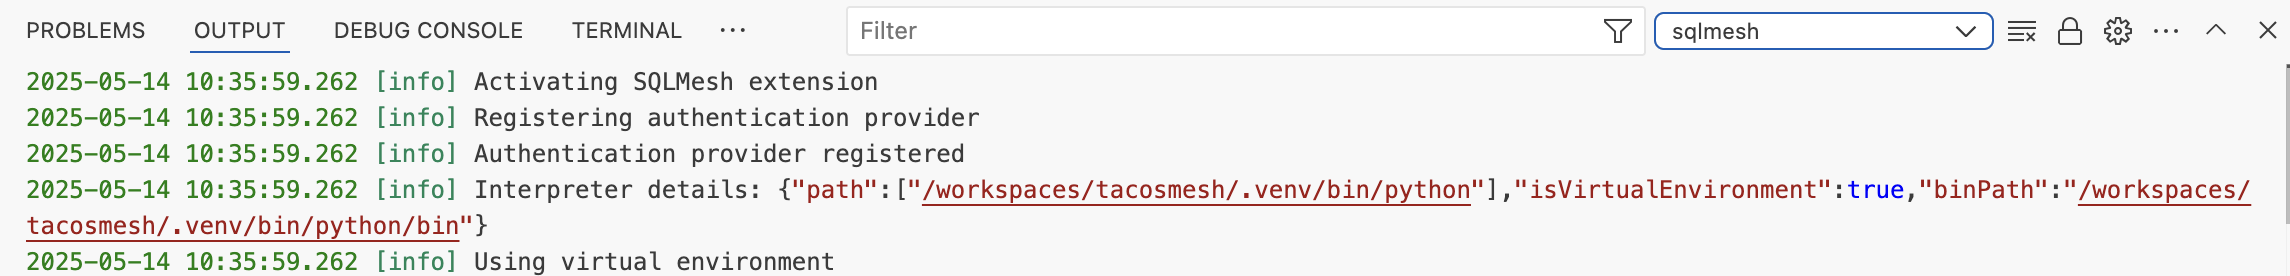
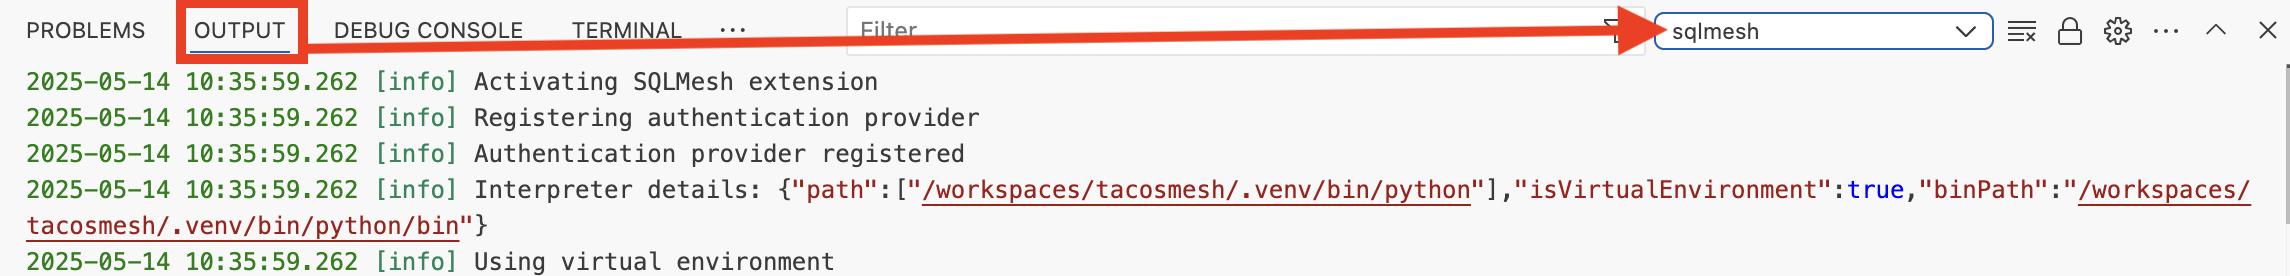
Edit vscode guide

Changed region(s): [[0.062, 0.0, 0.7441, 0.2319]]

diff --git a/docs/quickstart/vscode.md b/docs/quickstart/vscode.md
@@ -2,112 +2,153 @@
 
 !!! danger "Preview"
 
-    The extension is currently in preview and as such is subject to change. You may encounter bugs and API incompatibilities with the SQLMesh version you are running. We encourage you to try it and raise any issues [here](https://github.com/tobikodata/sqlmesh/issues).
+    The SQLMesh Visual Studio Code extension is in preview and undergoing active development. You may encounter bugs or API incompatibilities with the SQLMesh version you are running.
 
-In this quickstart guide, you'll set up the SQLMesh extension in Visual Studio Code. We'll show you the capabilities of the extension and how to troubleshoot common issues.
+    We encourage you to try the extension and [create Github issues](https://github.com/tobikodata/sqlmesh/issues) for any problems you encounter.
+
+In this guide, you'll set up the SQLMesh extension in the Visual Studio Code IDE software (which we refer to as "VSCode").
+
+We'll show you the capabilities of the extension and how to troubleshoot common issues.
 
 ## Installation
 
-Installation is done through the official [marketplace](https://marketplace.visualstudio.com/items?itemName=tobikodata.sqlmesh) or by searching for `SQLMesh` in the "Extensions" tab of Visual Studio Code. 
+### VSCode extension
 
-For further guidance on how to install extensions, see the [relevant Visual Studio Code documentation](https://code.visualstudio.com/docs/configure/extensions/extension-marketplace#_install-an-extension).  
+Install the extension through the official Visual Studio [marketplace website](https://marketplace.visualstudio.com/items?itemName=tobikodata.sqlmesh) or by searching for `SQLMesh` in the VSCode "Extensions" tab.
 
-### Recommended setup
+Learn more about installing VSCode extensions in the [official documentation](https://code.visualstudio.com/docs/configure/extensions/extension-marketplace#_install-an-extension).
 
-While installing the extension is simple, setting up a Python environment correctly is a bit more involved. We do recommend using a dedicated *Python virtual environment* to install SQLMesh. For a complete guide, visit the [Python documentation](https://docs.python.org/3/library/venv.html), but the following steps will create the virtual environment, activate it, and install SQLMesh for both a SQLMesh core setup and a Tobiko Cloud setup.
+### Python setup
 
-#### SQLMesh Core
+While installing the extension is simple, setting up and configuring a Python environment in VSCode is a bit more involved.
 
-For SQLMesh core, you can create a virtual environment, activate it and install SQLMesh as follows:
+We recommend using a dedicated *Python virtual environment* to install SQLMesh. Visit the [Python documentation](https://docs.python.org/3/library/venv.html) for more information about virtual environments.
+
+We describe the steps to create and activate a virtual environment below, but additional information is available on the [SQLMesh installation page](installation.md).
+
+We first install the SQLMesh library, which is required by the extension.
+
+Open a terminal instance in your SQLMesh project's directory and issue this command to create a virtual environment in the `.venv` directory:
 
 ```bash
 python -m venv .venv
+```
+
+Next, activate the virtual environment:
+
+```bash
 source .venv/bin/activate
+```
+
+#### Open-source SQLMesh
+
+If you are using open-source SQLMesh, install SQLMesh with the `lsp` extra that enables the VSCode extension (learn more about SQLMesh extras [here](installation.md#install-extras)):
+
+```bash
 pip install 'sqlmesh[lsp]'
 ```
 
-Once you have the virtual environment, you can ensure that Visual Studio Code is using the correct Python interpreter by going to the [command palette](https://code.visualstudio.com/docs/getstarted/userinterface#_command-palette) and running `Python: Select Interpreter`. Select the Python executable in the virtual environment.
-
-![Select interpreter](./vscode/select_interpreter.png)
-
-Once that's done, you can validate that the extension is correctly using the virtual environment by checking the `sqlmesh` output channel in the [output panel](https://code.visualstudio.com/docs/getstarted/userinterface#_output-panel), which details the Python path and the details of your SQLMesh installation and looks as follows:
-
-![Output panel](./vscode/interpreter_details.png)
-
 #### Tobiko Cloud
 
-For Tobiko Cloud, the `tcloud` utility is used to install SQLMesh, so you'll need to set up a Python environment, activate it, and install SQLMesh using the tcloud utility as follows.
+If you are using Tobiko Cloud, the `tcloud` library will install SQLMesh for you.
+
+First, follow the [Python setup](#python-setup) steps above to create and activate a Python environment. Next, install `tcloud`:
 
 ```bash
-python -m venv .venv
-source .venv/bin/activate
 pip install tcloud
 ```
 
-Once you have the virtual environment, you can ensure that Visual Studio Code is using the correct Python interpreter by going to the [command palette](https://code.visualstudio.com/docs/getstarted/userinterface#_command-palette) and running `Python: Select Interpreter`. Select the Python executable in the virtual environment.
+Finally, add the `lsp` extra to your `tcloud.yml` configuration file, as described [here](../cloud/tcloud_getting_started.md#connect-tobiko-cloud-to-data-warehouse).
+
+### VSCode Python interpreter
+
+A Python virtual environment contains its own copy of Python (the "Python interpreter"). We need to make sure VSCode is using your virtual environment's interpreter rather than a system-wide or other interpreter that does not have access to the SQLMesh library we just installed.
+
+Confirm that VSCode is using the correct interpreter by going to the [command palette](https://code.visualstudio.com/docs/getstarted/userinterface#_command-palette) and clicking `Python: Select Interpreter`. Select the Python executable that's in the virtual environment's directory `.venv`.
 
 ![Select interpreter](./vscode/select_interpreter.png)
 
-You can use the `tcloud` commands in your terminal to perform operations as usual, or the extension exposes the same commands through the command palette under the following commands:
-- `Sign in to Tobiko Cloud`
-- `Sign out of Tobiko Cloud`
+Once that's done, validate that the everything is working correctly by checking the `sqlmesh` channel in the [output panel](https://code.visualstudio.com/docs/getstarted/userinterface#_output-panel). It displays the Python interpreter path and details of your SQLMesh installation:
+
+![Output panel](./vscode/interpreter_details.png)
 
 ## Features
 
-### Lineage 
+SQLMesh's VSCode extension makes it easy to edit and understand your SQLMesh project with these features:
 
-The extension adds a lineage view to SQLMesh models. To view the lineage of a model, use the `Lineage` tab in the panel as shown below:
+- Lineage
+    - Interactive view of model lineage
+- Editor
+    - Auto-completion for model names and SQLMesh keywords
+    - Model summaries when hovering over model references
+    - Links to open model files from model references
+    - Inline SQLMesh linter diagnostics
+- VSCode commands
+    - Format SQLMesh project files
+    - Sign in/out of Tobiko Cloud (Tobiko Cloud users only)
+
+### Lineage
+
+The extension adds a lineage view to SQLMesh models. To view the lineage of a model, go to the `Lineage` tab in the panel:
 
 ![Lineage view](./vscode/lineage.png)
 
-### Commands
+### Editor
 
-The extension exposes the following commands through the command palette:
-
-- `Sign in to Tobiko Cloud`
-- `Sign out of Tobiko Cloud`
-- `Format SQLMesh project`
-
-### LSP Features 
-
-The SQLMesh LSP adds several features to the editor:
+The SQLMesh VSCode extension includes several features that make editing SQLMesh models easier and quicker:
 
 **Completion**
 
-When writing SQL models, keywords, or model names, you should see completion suggestions.
+See auto-completion suggestions when writing SQL models, keywords, or model names.
 
 ![Completion](./vscode/autocomplete.png)
 
 **Go to definition and hover information**
 
-The SQLMesh LSP adds a definition provider for SQLMesh models. When you hover over a model name, you should see a tooltip with the model description, and when you click, you will be taken to the model definition.
+Hovering over a model name shows a tooltip with the model description. Clicking the model name opens the file containing the model definition.
 
 **Diagnostics**
 
-The SQLMesh LSP adds a diagnostic provider for your SQLMesh project. If you have the SQLMesh linter enabled, issues will be reported in your editor. This works for both SQLMesh built-in rules and custom rules.
+If you have the [SQLMesh linter](../guides/linter.md) enabled, issues are reported directly in your editor. This works for both SQLMesh's built-in linter rules and custom linter rules.
 
 ![Diagnostics](./vscode/diagnostics.png)
 
 **Formatting**
 
-The SQLMesh LSP also adds a formatting provider for SQLMesh models. When you write SQL models, you can use the formatter to format models consistently.
+SQLMesh's model formatting tool is integrated directly into the editor, so it's easy to format models consistently.
+
+### Commands
+
+The SQLMesh VSCode extension provides the following commands in the VSCode command palette:
+
+- `Format SQLMesh project`
+- `Sign in to Tobiko Cloud` (Tobiko Cloud users only)
+- `Sign out of Tobiko Cloud` (Tobiko Cloud users only)
 
 ## Troubleshooting
 
-### LSP extensions
+### Python environment woes
 
-When installing SQLMesh, some dependencies that are required by the extension are not installed by default. You can install them by running the following command in your terminal. Specifying the `[lsp]` flag will install the dependencies required by the extension.
+The most common problem is the extension not using the correct Python interpreter.
+
+Follow the [setup process described above](#vscode-python-interpreter) to ensure that the extension is using the correct Python interpreter.
+
+If you have checked the VSCode `sqlmesh` output channel and the extension is still not using the correct Python interpreter, please raise an issue [here](https://github.com/tobikodata/sqlmesh/issues).
+
+### Missing Python dependencies
+
+When installing SQLMesh, some dependencies required by the VSCode extension are not installed unless you specify the `lsp` "extra".
+
+If you are using open-source SQLMesh, install the `lsp` extra by running this command in your terminal:
 
 ```bash
 pip install 'sqlmesh[lsp]'
 ```
 
-If you are in a cloud environment, you can ensure the extension requirements are correctly installed by adding `lsp` to the list of extras required in the `tcloud.yaml` file.
-
-### Python environment woes
-
-The most common issue is that the extension is not using the correct Python interpreter. We recommend following the [recommended setup](#recommended-setup) to ensure that the extension is using the correct Python interpreter. If you have checked the `sqlmesh` output channel and the extension is still not using the correct Python interpreter, please raise an issue [here](https://github.com/tobikodata/sqlmesh/issues).
+If you are using Tobiko Cloud, make sure `lsp` is included in the list of extras specified in the [`tcloud.yaml` configuration file](../cloud/tcloud_getting_started.md#connect-tobiko-cloud-to-data-warehouse).
 
 ### SQLMesh compatibility
 
-While the extension is in preview and the APIs to the underlying SQLMesh version are not stable, we do not guarantee compatibility between the extension and the SQLMesh version you are using. If you encounter an issue, please raise an issue [here](https://github.com/tobikodata/sqlmesh/issues).
+While the SQLMesh VSCode extension is in preview and the APIs to the underlying SQLMesh version are not stable, we do not guarantee compatibility between the extension and the SQLMesh version you are using.
+
+If you encounter a problem, please raise an issue [here](https://github.com/tobikodata/sqlmesh/issues).

diff --git a/docs/installation.md b/docs/installation.md
@@ -24,21 +24,24 @@ pip install sqlmesh
 ```
 
 ## Install extras
-Some SQLMesh functionality requires additional Python libraries.
+Some SQLMesh functionality requires additional Python libraries, which are bundled with SQLMesh via "extras".
 
-`pip` will automatically install them for you if you specify the relevant name in brackets. For example, you install the SQLMesh browser UI extras with `pip install "sqlmesh[web]"`.
+In your `pip` command, specify the extra's name in brackets to automatically install the additional libraries. For example, you install the SQLMesh Github CI/CD bot extras with `pip install "sqlmesh[github]"`.
 
-Some extras add features, like the SQLMesh browser UI or Github CI/CD bot:
+There are two types of extras.
+
+Some extras add features, like the SQLMesh VSCode extension or Github CI/CD bot:
 
 ??? info "Feature extras commands"
     | Feature             | `pip` command                   |
     | ------------------- | ------------------------------- |
-    | Browser UI          | `pip install "sqlmesh[web]"`    |
+    | VSCode extension    | `pip install "sqlmesh[lsp]"`    |
+    | Github CI/CD bot    | `pip install "sqlmesh[github]"` |
     | dbt projects        | `pip install "sqlmesh[dbt]"`    |
     | dlt projects        | `pip install "sqlmesh[dlt]"`    |
-    | Github CI/CD bot    | `pip install "sqlmesh[github]"` |
     | Slack notifications | `pip install "sqlmesh[slack]"`  |
     | Development setup   | `pip install "sqlmesh[dev]"`    |
+    | Browser UI          | `pip install "sqlmesh[web]"`    |
     | LLM SQL prompt      | `pip install "sqlmesh[llm]"`    |
 
 Other extras are required to use specific SQL engines, like Bigquery or Postgres:
@@ -47,6 +50,7 @@ Other extras are required to use specific SQL engines, like Bigquery or Postgres
     | SQL engine    | `pip` command                        |
     | ------------- | ------------------------------------ |
     | Athena        | `pip install "sqlmesh[athena]"`      |
+    | Azure SQL     | `pip install "sqlmesh[azuresql]"`    |
     | Bigquery      | `pip install "sqlmesh[bigquery]"`    |
     | ClickHouse    | `pip install "sqlmesh[clickhouse]"`  |
     | Databricks    | `pip install "sqlmesh[databricks]"`  |
@@ -55,10 +59,11 @@ Other extras are required to use specific SQL engines, like Bigquery or Postgres
     | MySQL         | `pip install "sqlmesh[mysql]"`       |
     | Postgres      | `pip install "sqlmesh[postgres]"`    |
     | Redshift      | `pip install "sqlmesh[redshift]"`    |
+    | RisingWave    | `pip install "sqlmesh[risingwave]"`  |
     | Snowflake     | `pip install "sqlmesh[snowflake]"`   |
     | Trino         | `pip install "sqlmesh[trino]"`       |
 
-Multiple extras can be installed at once, as in `pip install "sqlmesh[web,slack]"`.
+Multiple extras can be installed at once, as in `pip install "sqlmesh[github,slack]"`.
 
 ## Next steps
 
